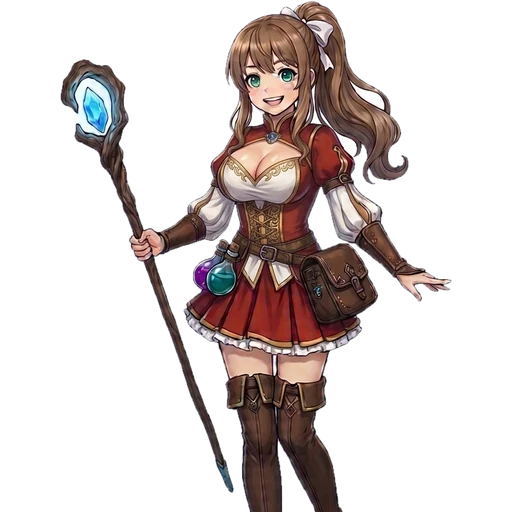
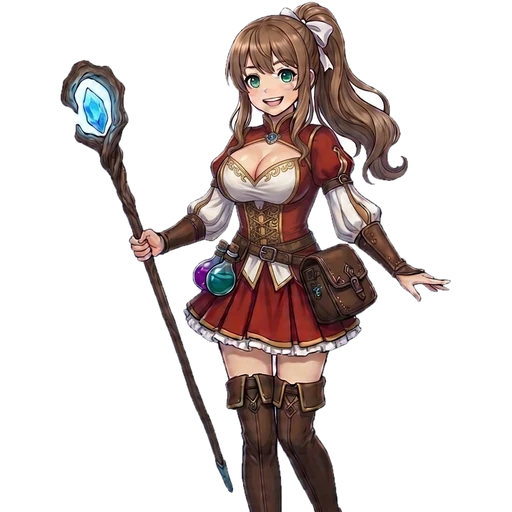
루미나: 공격에 맞을 때마다 옷 그림이 4단계로 바뀜 (서버가 맞은 횟수를 셈)
Claude-Session: https://claude.ai/code/session_01GAfPYv1tkAbb9Rk6MJFNve

diff --git a/public/js/battle.js b/public/js/battle.js
@@ -207,7 +207,7 @@ const Battle = (() => {
   function drawMon(key, m) {
     const box = $(`#m-${key}`);
     box.className = `mon ${key}${m.mega ? ' mega' : ''}`;
-    box.innerHTML = monsterSVG(m.species, '', m.mega);
+    box.innerHTML = monsterSVG(m.species, '', m.mega, m.hits);
   }
 
   const dispMon = (key) => (key === 'me' ? mine() : seatOf(key).active);
@@ -287,6 +287,12 @@ const Battle = (() => {
         const m = dispMon(key);
         m.hp = e.hp; m.maxHp = e.maxHp;
         setBar(key, m);
+        if (e.hits !== undefined && e.hits !== m.hits) { // 맞은 횟수가 바뀌면 그림을 다시 그림 (옷 바뀌는 요괴)
+          const before = monsterSVG(m.species, '', m.mega, m.hits);
+          m.hits = e.hits;
+          const after = monsterSVG(m.species, '', m.mega, m.hits);
+          if (after !== before) setTimeout(() => { const box = $(`#m-${key}`); if (box) { box.innerHTML = after; box.classList.add('swapfx'); setTimeout(() => box.classList.remove('swapfx'), 500); } }, 180);
+        }
         if (e.quiet) break;
         if (e.dmg !== undefined) {
           if (e.moveType) {
@@ -398,7 +404,7 @@ const Battle = (() => {
         <div class="zc-pair">
           ${duo ? '<canvas class="zc-tr"></canvas>' : ''}
           <div class="zc-bond"><i></i><i></i><i></i><b>유대 MAX</b></div>
-          <div class="zc-mon">${monsterSVG(e.mon.species, '', e.mon.mega)}</div>
+          <div class="zc-mon">${monsterSVG(e.mon.species, '', e.mon.mega, e.mon.hits)}</div>
         </div>
         <div class="zc-text"><span class="zc-kick">Z기술 · ${esc(e.player)} × ${esc(e.mon.name)}</span><b class="zc-name">${esc(e.move)}</b></div>
       </div>
@@ -515,7 +521,7 @@ const Battle = (() => {
     say(`${moveDraft.mv ? moveDraft.mv.n : '악쓰기'}, 누구에게 쓸까요?`);
     panel.innerHTML = `${liveOpps().map((o) => {
       const eff = moveDraft.mv && moveDraft.mv.cat !== 'x' ? effOn(moveDraft.mv, o.active) : 1;
-      return `<button class="sw tg" data-tg="${o.seat}">${monsterSVG(o.active.species, '', o.active.mega)}
+      return `<button class="sw tg" data-tg="${o.seat}">${monsterSVG(o.active.species, '', o.active.mega, o.active.hits)}
         <div class="inf">${o.active.name} ${o.active.types.map(typeChip).join('')}
           <small>${esc(o.name)}${eff === 0 ? ', 효과 없음' : eff !== 1 ? `, 상성 ${eff}배` : ''}</small></div></button>`;
     }).join('')}<button class="btn paper wide" id="tg-back">기술 고르기로 돌아가기</button>`;
@@ -529,7 +535,7 @@ const Battle = (() => {
     if (training) {
       say('어떤 요괴로 바꿀까요?');
       panel.innerHTML = `<div class="swgrid">${view.me.mons.map((m, i) => `<button data-sw="${i}" ${i === view.me.active ? 'disabled' : ''} aria-label="${m.name}">
-        ${monsterSVG(m.species, '', m.mega)}<span>${m.name}</span></button>`).join('')}</div>
+        ${monsterSVG(m.species, '', m.mega, m.hits)}<span>${m.name}</span></button>`).join('')}</div>
         <button class="btn paper wide" id="sw-back">기술 고르기로 돌아가기</button>`;
       panel.querySelectorAll('[data-sw]').forEach((b) => { b.onclick = () => { menu = 'moves'; act({ type: 'switch', index: +b.dataset.sw }); }; });
       panel.querySelector('#sw-back').onclick = () => { menu = 'moves'; renderPanel(); };
@@ -538,7 +544,7 @@ const Battle = (() => {
     panel.innerHTML = `${view.me.mons.map((m, i) => {
       const off = m.hp <= 0 || i === view.me.active;
       return `<button class="sw" data-sw="${i}" ${off ? 'disabled' : ''}>
-        ${monsterSVG(m.species, '', m.mega)}
+        ${monsterSVG(m.species, '', m.mega, m.hits)}
         <div class="inf">${m.name} ${m.types.map(typeChip).join('')}
           <div class="bar" style="max-width:190px"><i class="${m.hp / m.maxHp <= .2 ? 'low' : m.hp / m.maxHp <= .5 ? 'mid' : ''}" style="width:${(m.hp / m.maxHp) * 100}%"></i></div>
           <small>${m.hp <= 0 ? '쓰러짐' : `${m.hp} / ${m.maxHp}`}${m.status ? `, ${STATUS[m.status]}` : ''}${i === view.me.active && m.hp > 0 ? ', 싸우는 중' : ''}</small>

diff --git a/public/js/art.js b/public/js/art.js
@@ -254,8 +254,13 @@ ART.dummy = wrap(`
   <path d="M43 18q-6-8 0-12M77 18q6-8 0-12" fill="none" stroke="#a8843e" stroke-width="2.500"/>`);
 
 // 사진 그림을 쓰는 요괴 (루미나, 실비아). 서버 데이터의 img 표시를 따릅니다.
-function monsterSVG(id, cls = '', mega = false) {
-  if (typeof G !== 'undefined' && G.data?.MONSTERS?.[id]?.img) return `<svg class="${cls}" viewBox="0 0 200 200" aria-hidden="true"><image href="img/mon/${id}${mega ? '-mega' : ''}.webp" width="200" height="200"/></svg>`;
+// hits: 맞은 횟수. stages가 있는 요괴는 맞을 때마다 그림이 다음 단계로 바뀝니다 (메가진화 중에는 메가 그림).
+function monsterSVG(id, cls = '', mega = false, hits = 0) {
+  const sp = typeof G !== 'undefined' ? G.data?.MONSTERS?.[id] : null;
+  if (sp?.img) {
+    const stage = !mega && sp.stages ? Math.min(hits || 0, sp.stages) : 0;
+    return `<svg class="${cls}" viewBox="0 0 200 200" aria-hidden="true"><image href="img/mon/${id}${mega ? '-mega' : stage ? `-s${stage}` : ''}.webp" width="200" height="200"/></svg>`;
+  }
   if (mega) return `<svg class="${cls}" viewBox="-6 -6 212 212" aria-hidden="true">${MEGA_ART[id]}</svg>`;
   if (NEW_ART[id]) return `<svg class="${cls}" viewBox="-4 -6 208 212" aria-hidden="true">${NEW_ART[id]}</svg>`;
   return `<svg class="${cls}" viewBox="0 0 120 120" aria-hidden="true">${ART[id] || ''}</svg>`;

diff --git a/server/engine.js b/server/engine.js
@@ -223,7 +223,8 @@ function hpEvent(b, s, m, ev, extra = {}) {
 function hurt(b, s, m, amount, ev, extra) {
   const dmg = Math.min(m.hp, Math.max(1, Math.floor(amount)));
   m.hp -= dmg;
-  hpEvent(b, s, m, ev, { dmg, ...extra });
+  if (extra?.moveType) m.hits = (m.hits || 0) + 1; // 공격에 맞은 횟수 (옷이 바뀌는 요괴용)
+  hpEvent(b, s, m, ev, { dmg, ...extra, ...(extra?.moveType ? { hits: m.hits } : {}) });
   if (b.training && m.species === 'dummy') {
     const d = b.dummy;
     d.total += dmg; d.turn += dmg; d.hits++;
@@ -256,7 +257,7 @@ function faintCheck(b, s, m, ev) {
 function publicMon(m) {
   return {
     species: m.species, name: m.name, types: m.types,
-    hp: m.hp, maxHp: m.maxHp, status: m.status, stages: m.stages, seeded: m.seeded, mega: m.mega,
+    hp: m.hp, maxHp: m.maxHp, status: m.status, stages: m.stages, seeded: m.seeded, mega: m.mega, hits: m.hits || 0,
   };
 }
 

diff --git a/public/style.css b/public/style.css
@@ -653,3 +653,7 @@ label.field input { display: block; width: 100%; margin-top: 3px; padding: 10px;
 .swgrid span { font-size: 11px; line-height: 1.15; word-break: keep-all; text-align: center; }
 .train-card { background: linear-gradient(135deg, #fff4d8, #ffe2b8); }
 
+
+/* 맞아서 그림이 바뀔 때 번쩍 */
+.mon.swapfx svg { animation: swapFx .5s ease-out; }
+@keyframes swapFx { 0% { filter: brightness(3) saturate(0); transform: scale(1.06); } 100% { filter: none; transform: none; } }

diff --git a/server/data.js b/server/data.js
@@ -505,5 +505,7 @@ const STAT_NAMES = {
 
 // 루미나와 실비아는 사진 그림(public/img/mon)을 씁니다.
 for (const id of ['lumina', 'silvia']) MONSTERS[id].img = true;
+// 맞을 때마다 옷이 바뀌는 그림 수 (img/mon/<id>-s1 ~ sN.webp)
+MONSTERS.lumina.stages = 4;
 
 module.exports = { TYPES, CHART, MOVES, STRUGGLE, MONSTERS, AVATAR_OPTIONS, COSMETICS, STAT_NAMES };
